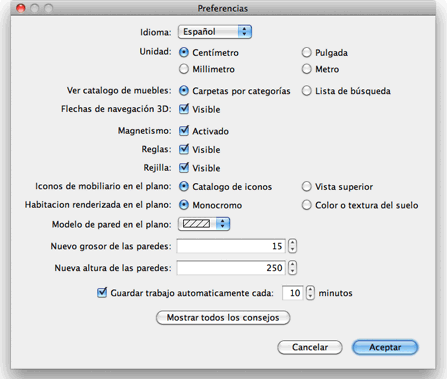
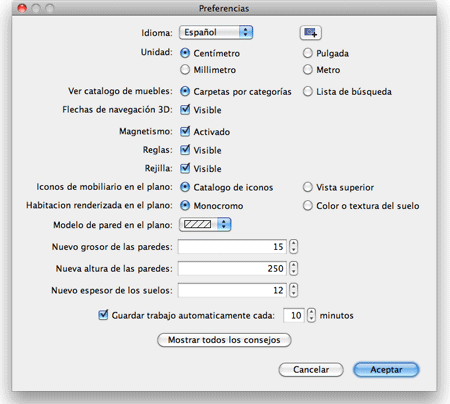
Updated preferences dialog

Changed region(s): [[0.0, 0.0, 0.9888, 0.9868], [0.6689, 0.4354, 0.9306, 0.5515]]

diff --git a/SweetHome3D/src/com/eteks/sweethome3d/viewcontroller/resources/help/cs/editingPreferences.html b/SweetHome3D/src/com/eteks/sweethome3d/viewcontroller/resources/help/cs/editingPreferences.html
@@ -26,7 +26,7 @@
 <table width="100%" border="0" cellspacing="0" cellpadding="3">
 	<tr>
 	<td><p>Nastavení programu Sweet Home 3D změníte v <i>Sweet Home 3D &gt; Nastavení...</i> v prostředí Mac OS X nebo v <i>Projekt &gt; Nastavení...</i> v jiných systémech.</p>
-	    <p align="center"><img src="images/editingPreferences.png" width="434" height="381"></p>
+	    <p align="center"><img src="images/editingPreferences.png" width="429" height="401"></p>
 	  <p>V okně nastavení můžete měnit <i>jazyk</i> prostředí programu Sweet Home 3D, <i>měrnou jednotku</i> užívanou v pravítku plánu, mřížce a všech dalších rozměrech.    <br>
 						
 	    Políčko <i>přichytávání</i> povoluje či zakazuje užívání přichytávání v plánu projektu při <a href="drawingWalls.html">kreslení zdí</a>

diff --git a/SweetHome3D/src/com/eteks/sweethome3d/viewcontroller/resources/help/es/editingPreferences.html b/SweetHome3D/src/com/eteks/sweethome3d/viewcontroller/resources/help/es/editingPreferences.html
@@ -27,7 +27,7 @@
       <td><p>Para editar las preferencias de Sweet Home 3D, elige <i>Sweet Home 3D 
           &gt; Preferencias...</i> en Mac OS X o <i>Archivo &gt; Preferencias...</i> 
           en otros sistemas.</p>
-        <p align="center"><img src="images/editingPreferences.png" width="447" height="379"></p>
+        <p align="center"><img src="images/editingPreferences.png" width="450" height="404"></p>
         <p>En el panel preferencias, puedes elegir el <i>Idioma</i> usado en la 
           interfaz de usuario de Sweet Home 3D y las <i>Unidades</i> usadas para 
           dibujar las reglas y rejillas del plano, y mostrar las longitudes.</p>

diff --git a/SweetHome3D/src/com/eteks/sweethome3d/viewcontroller/resources/help/it/editingPreferences.html b/SweetHome3D/src/com/eteks/sweethome3d/viewcontroller/resources/help/it/editingPreferences.html
@@ -33,7 +33,7 @@
 				&gt; Preferenze...</I> sotto Mac OS X oppure <I>File &gt;
 				Preferenze...</I> sotto altri sistemi operativi.</P>
 				
-        <P ALIGN=CENTER><IMG SRC="images/editingPreferences.png" ALIGN=BOTTOM WIDTH=434 HEIGHT=381 BORDER=0></P>
+        <P ALIGN=CENTER><IMG SRC="images/editingPreferences.png" ALIGN=BOTTOM WIDTH=435 HEIGHT=401 BORDER=0></P>
 				<P>Nel pannello preferenze, puoi scegliere il <I>Linguaggio</I>
 				usato per l'interfaccia utente di Sweet Home 3D e l'<I>Unità di
 				misura</I> usata per disegnare i righelli e la griglia della
